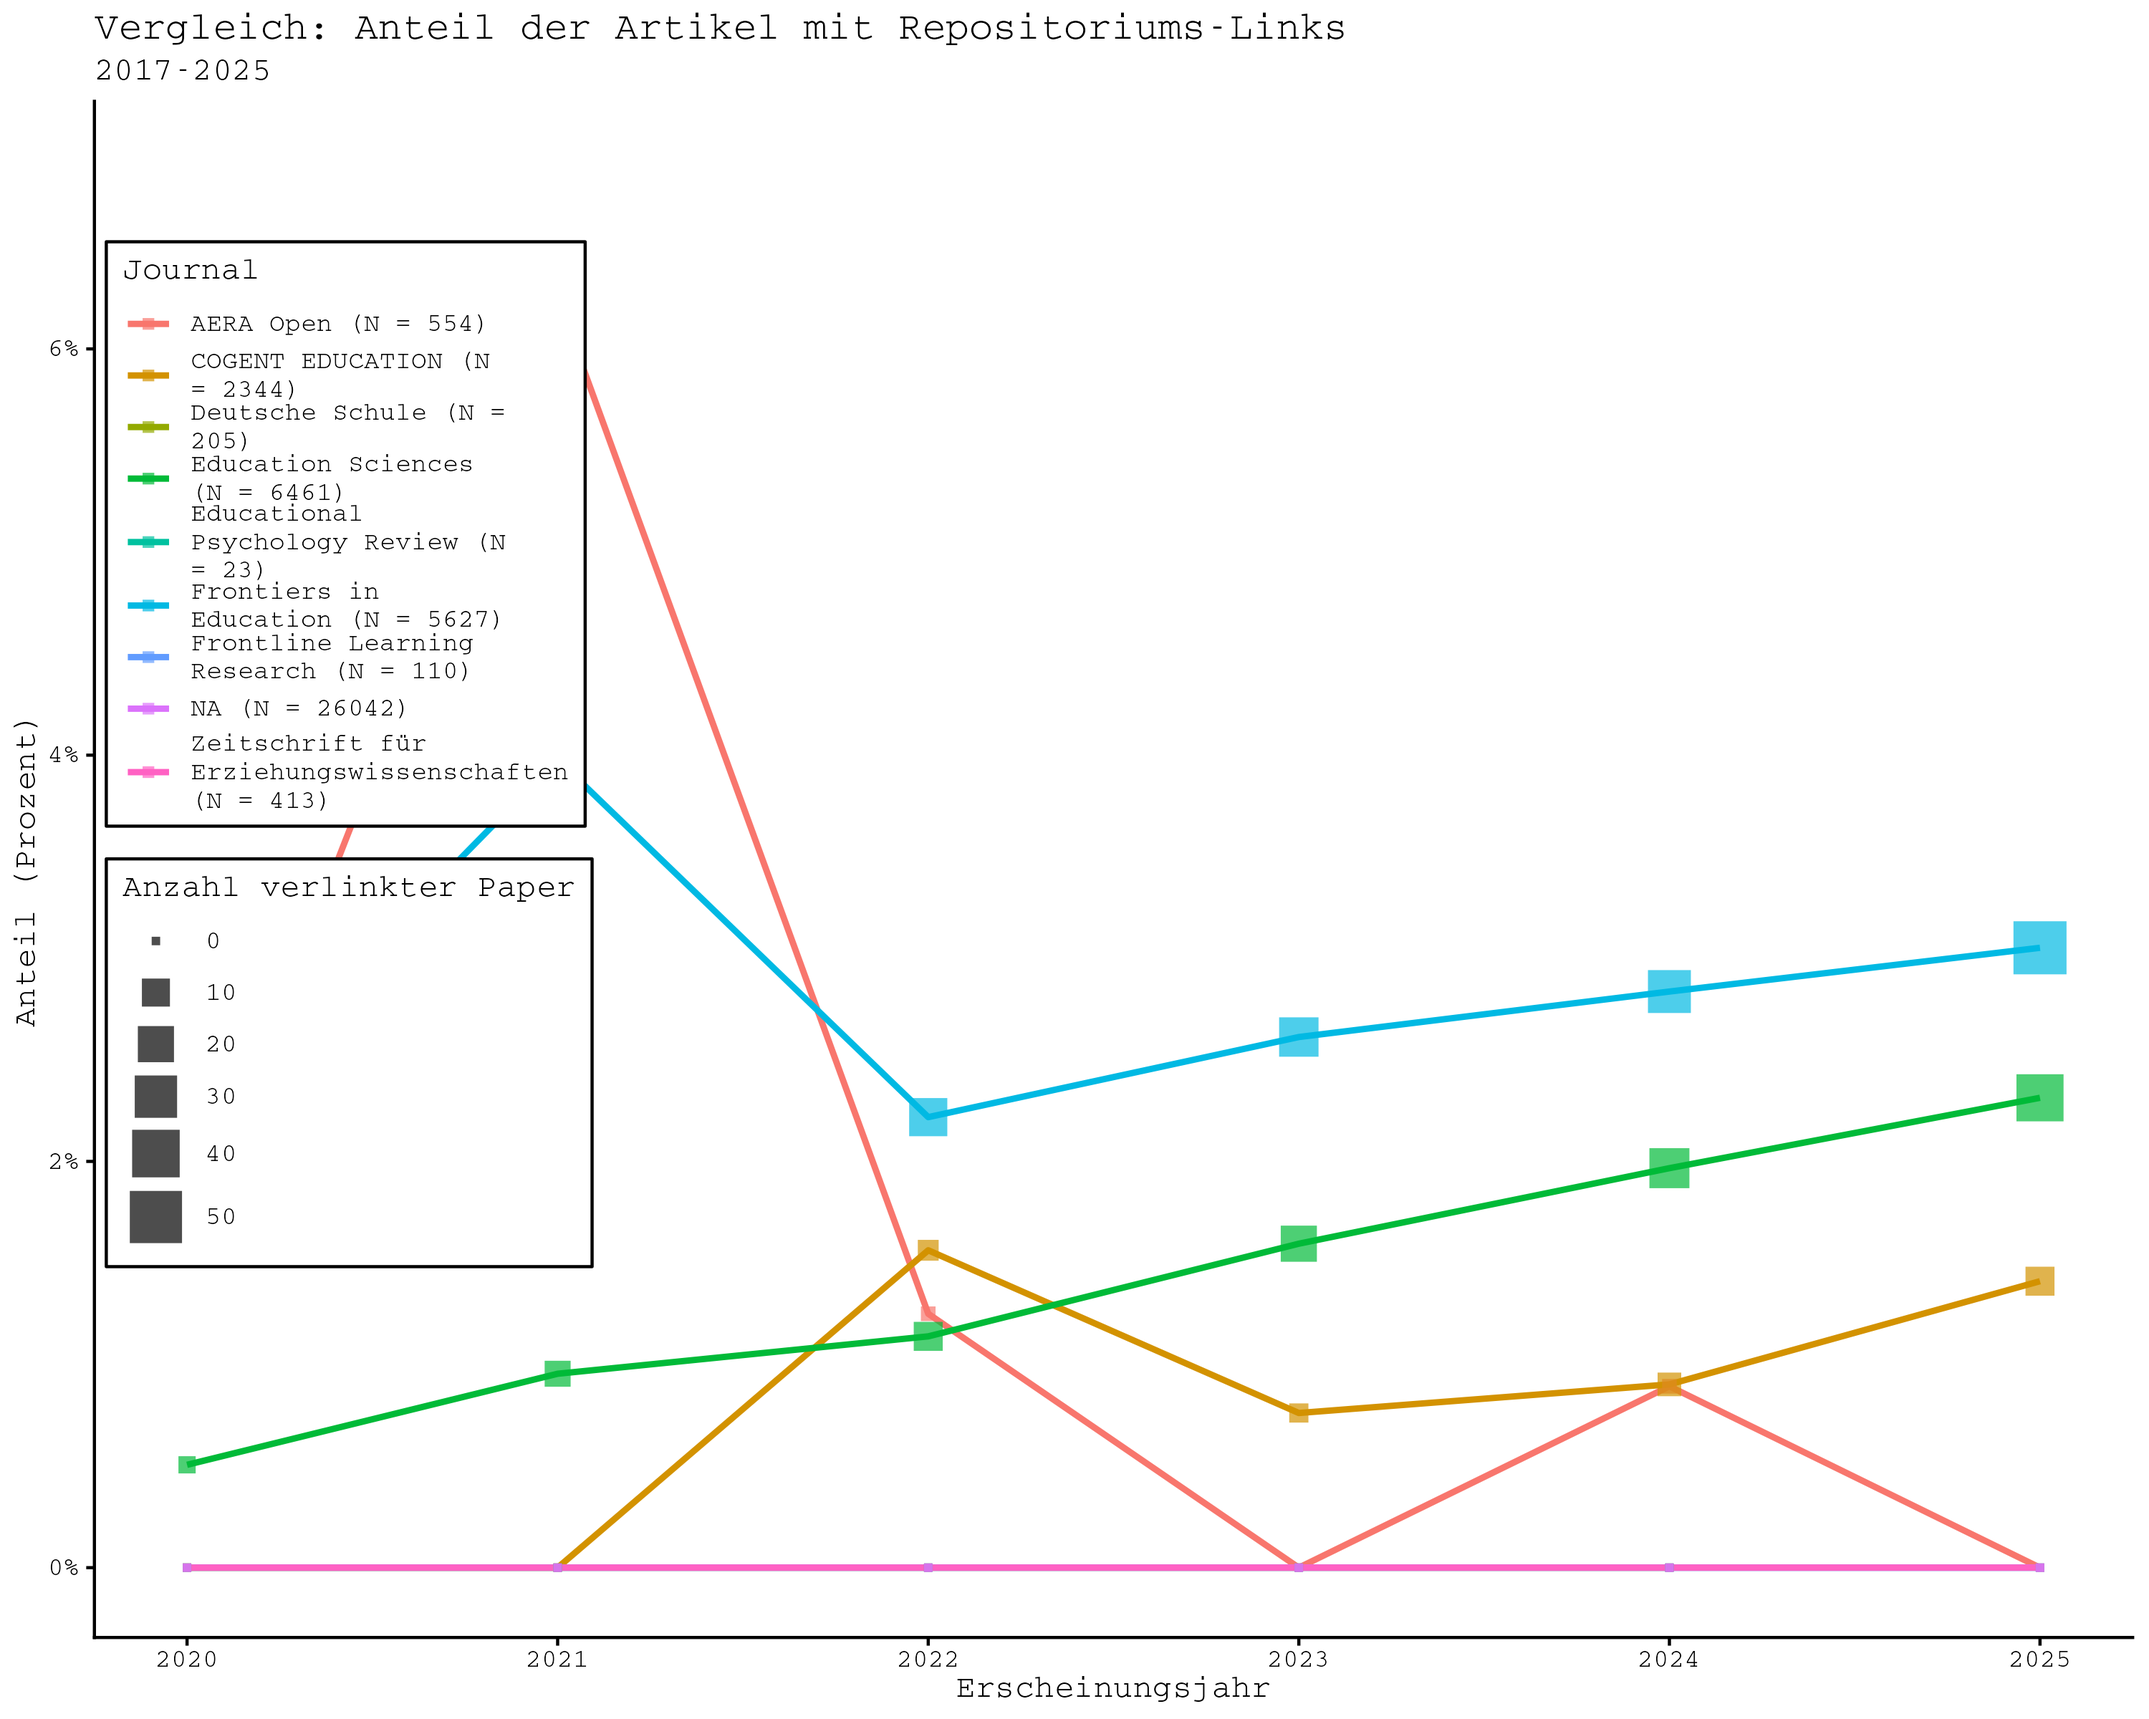
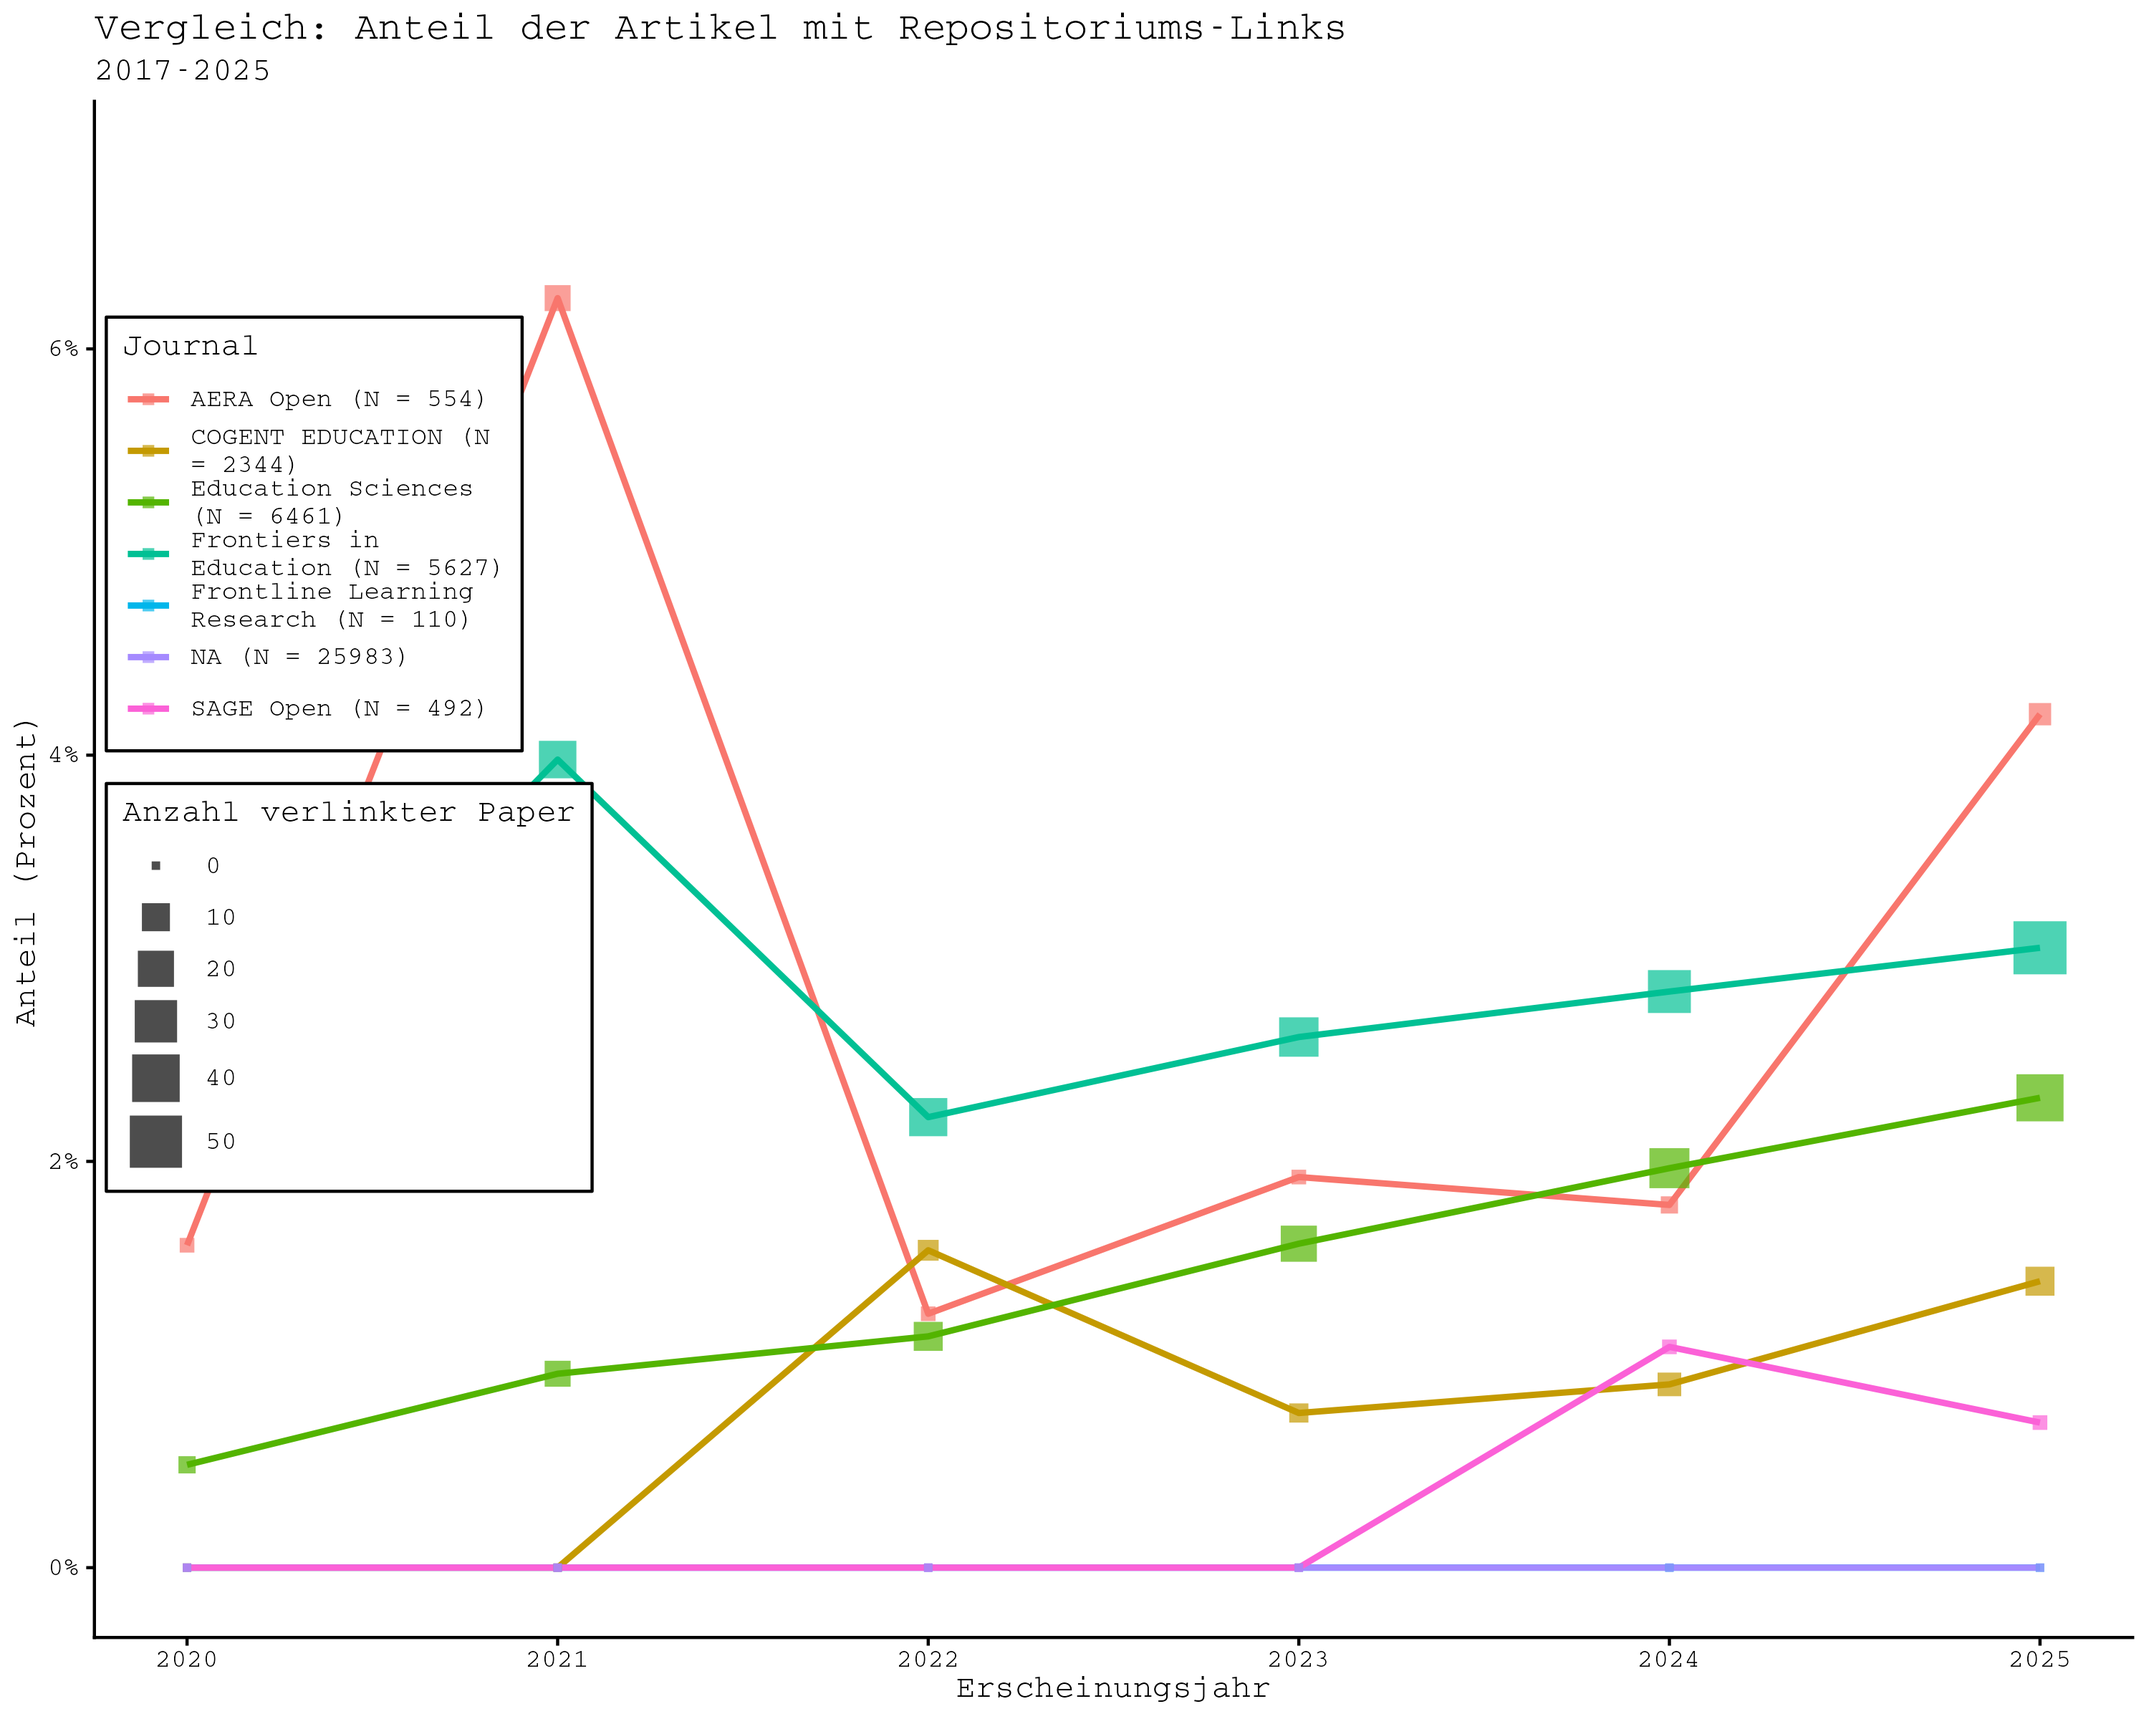
add current results for paper 1

diff --git a/src/fetch.py b/src/fetch.py
@@ -1,7 +1,7 @@
 import requests
 from database import DB_DIR
 from dotenv import load_dotenv
-from typing import List, Generator, Any
+from typing import List, Generator, Any, Optional
 import os
 
 env = load_dotenv()
@@ -13,54 +13,111 @@ OPEN_ALEX_API_URL = "https://api.openalex.org/works"
 INDEX_DB = os.path.join(DB_DIR, "openalex_jsonl")
 
 
+# def get_journal_by_id(
+#   journal_ids: List[str], per_page: int, min_year: int, pdf: bool = True, _cursor=None
+# ) -> Generator[Any, None, None]:
+#   """
+#   :param journal_ids: Journal ids given in the openalex-format. For example "S2596526815" for Frontiers in education.
+#   :type journal_ids: List[str]
+#   :param per_page: the amount of works fetched per page, i.e. batch size.
+#   :type per_page: int
+#   :param min_year: For example 2016, only works with publication_year > min_year are fetched
+#   :type min_year: int
+#   :param pdf: if this is True, only openalex works endowed with an open access pdf link are fetched, note that openalex does not necessarily find all pdfs, for example PeDocs is not accessible.
+#   :type pdf: bool
+#   :return:
+#   :rtype: Generator[Any, None, None]
+#   """
+#   cursor = "*" if not _cursor else _cursor
+#   if isinstance(journal_ids, str):
+#     journal_ids = [journal_ids]
+#   while True:
+#     params = {
+#       "cursor": cursor,
+#       "per_page": per_page,
+#       "filter": (
+#         "primary_location.source.id:"
+#         f"{'|'.join(journal_ids)}"
+#         ",open_access.is_oa:true"
+#         f",has_content.pdf:{pdf}"
+#         f",publication_year:>{min_year}"
+#         ",type:article"
+#       ),
+#       "sort": "publication_year:desc",
+#       "mailto": f"{EMAIL_ADRESS}",
+#     }
+#     print(f"Query: {params}")
+#     try:
+#       r = requests.get(OPEN_ALEX_API_URL, params=params, timeout=100)
+#       r.raise_for_status()
+#       payload = r.json()
+#     except requests.exceptions.RequestException as e:
+#       print(f"An API request error occured: {e}")
+#       print(f"With cursor: {cursor}")
+#       break
+# 
+#     results = payload.get("results", [])
+#     if not results:
+#       print("INFO: No more results found on this page. Stopping.")
+#       break
+# 
+#     for w in results:
+#       yield w
+# 
+#     cursor = payload.get("meta", {}).get("next_cursor")
+#     if not cursor:
+#       print("No more works to fetch, stopping fetch.")
+#       break
+
+
 def get_journal_by_id(
-  journal_ids: List[str], per_page: int, min_year: int, pdf:bool=True, _cursor=None
+  journal_ids: List[str],
+  per_page: int,
+  min_year: int,
+  pdf: bool = True,
+  field_id: Optional[str] = None,  # New: e.g., "33"
+  subfield_id: Optional[str] = None,  # New: e.g., "3304"
+  _cursor=None,
 ) -> Generator[Any, None, None]:
-  """
-  Docstring for get_journal_by_id
-  
-  :param journal_ids: Journal ids given in the openalex-format. For example "S2596526815" for Frontiers in education.
-  :type journal_ids: List[str]
-  :param per_page: the amount of works fetched per page, i.e. batch size.
-  :type per_page: int
-  :param min_year: For example 2016, only works with publication_year > min_year are fetched
-  :type min_year: int
-  :param pdf: if this is True, only openalex works endowed with an open access pdf link are fetched, note that openalex does not necessarily find all pdfs, for example PeDocs is not accessible.
-  :type pdf: bool
-  :return: 
-  :rtype: Generator[Any, None, None]
-  """
+
   cursor = "*" if not _cursor else _cursor
   if isinstance(journal_ids, str):
     journal_ids = [journal_ids]
+
   while True:
+    filter_parts = [
+      f"primary_location.source.id:{'|'.join(journal_ids)}",
+      "open_access.is_oa:true",
+      f"has_content.pdf:{str(pdf).lower()}",
+      f"publication_year:>{min_year}",
+      "type:article",
+    ]
+
+    if field_id:
+      filter_parts.append(f"primary_topic.field.id:{field_id}")
+    if subfield_id:
+      filter_parts.append(f"primary_topic.subfield.id:{subfield_id}")
+
     params = {
       "cursor": cursor,
       "per_page": per_page,
-      "filter": (
-        "primary_location.source.id:"
-        f"{'|'.join(journal_ids)}"
-        ",open_access.is_oa:true"
-        f",has_content.pdf:{pdf}"
-        f",publication_year:>{min_year}"
-        ",type:article"
-      ),
+      "filter": ",".join(filter_parts),
       "sort": "publication_year:desc",
       "mailto": f"{EMAIL_ADRESS}",
     }
+
     print(f"Query: {params}")
+
     try:
       r = requests.get(OPEN_ALEX_API_URL, params=params, timeout=100)
       r.raise_for_status()
       payload = r.json()
     except requests.exceptions.RequestException as e:
-      print(f"An API request error occured: {e}")
-      print(f"With cursor: {cursor}")
+      print(f"An API request error occurred: {e}")
       break
 
     results = payload.get("results", [])
     if not results:
-      print("INFO: No more results found on this page. Stopping.")
       break
 
     for w in results:
@@ -68,14 +125,13 @@ def get_journal_by_id(
 
     cursor = payload.get("meta", {}).get("next_cursor")
     if not cursor:
-      print("No more works to fetch, stopping fetch.")
       break
 
 
 def extract_pdf_locations(work: dict) -> dict[str, list[Any]]:
   """
   Concatenates all possible pdf locations if available.
-  
+
   :param work: Description
   :type work: an openalex object
   :return: A json object of a list of pdf links
@@ -88,30 +144,33 @@ def extract_pdf_locations(work: dict) -> dict[str, list[Any]]:
   pdf_links = [best] + [primary] + other_urls
   return {"pdf_links": list(set(pdf_links))}
 
+
 def get_github_files(owner, repo, path=""):
-    url = f"https://api.github.com/repos/{owner}/{repo}/contents/{path}"
-    response = requests.get(url)
-    
-    if response.status_code == 200:
-        contents = response.json()
-        for item in contents:
-            print(f"{item['type'].upper()}: {item['name']}")
-    else:
-        print(f"Error: {response.status_code}")
+  url = f"https://api.github.com/repos/{owner}/{repo}/contents/{path}"
+  response = requests.get(url)
+
+  if response.status_code == 200:
+    contents = response.json()
+    for item in contents:
+      print(f"{item['type'].upper()}: {item['name']}")
+  else:
+    print(f"Error: {response.status_code}")
+
 
 def get_all_files_recursive(owner, repo, branch="main"):
-    url = f"https://api.github.com/repos/{owner}/{repo}/git/trees/{branch}?recursive=1"
-    response = requests.get(url)
-    
-    if response.status_code == 200:
-        tree = response.json().get("tree", [])
-        for item in tree:
-            type_label = "FILE" if item["type"] == "blob" else "DIR "
-            print(f"{type_label}: {item['path']}")
-    else:
-        print(f"Failed to fetch: {response.status_code}")
+  url = f"https://api.github.com/repos/{owner}/{repo}/git/trees/{branch}?recursive=1"
+  response = requests.get(url)
 
-def github_to_api(github_link : str) -> tuple[str, str]:
+  if response.status_code == 200:
+    tree = response.json().get("tree", [])
+    for item in tree:
+      type_label = "FILE" if item["type"] == "blob" else "DIR "
+      print(f"{type_label}: {item['path']}")
+  else:
+    print(f"Failed to fetch: {response.status_code}")
+
+
+def github_to_api(github_link: str) -> tuple[str, str]:
   parts = github_link.split("/")
   print(parts)
   user = parts[3]

diff --git a/src/pipeline.py b/src/pipeline.py
@@ -545,7 +545,7 @@ PAPER_JOURNALS = [
 async def main(journal_id):
   while True:
     succ = await download_batch_by_journal_async(
-      journal_id, 1000, 50, False, which="FAILED",
+      journal_id, 1000, 50, False, which="PENDING",
     )
     if not succ:
       break
@@ -557,10 +557,10 @@ if __name__ == "__main__":
                       help="download or process?.")
   args = parser.parse_args()
 
-  journal = PAPER_JOURNALS[2]
+  journal = PAPER_JOURNALS[6]
   ## vpn.rotate_vpn_server()
-  # for work in get_journal_by_id([journal], 100, 2019, pdf=False):
-  #     insert_work_metadata_sql(work)
+  for work in get_journal_by_id([journal], 100, 2019, pdf=True):
+      insert_work_metadata_sql(work)
   if args.mode == "download":
     transform_url_by_journal(journal)  
     asyncio.run(main(journal))
